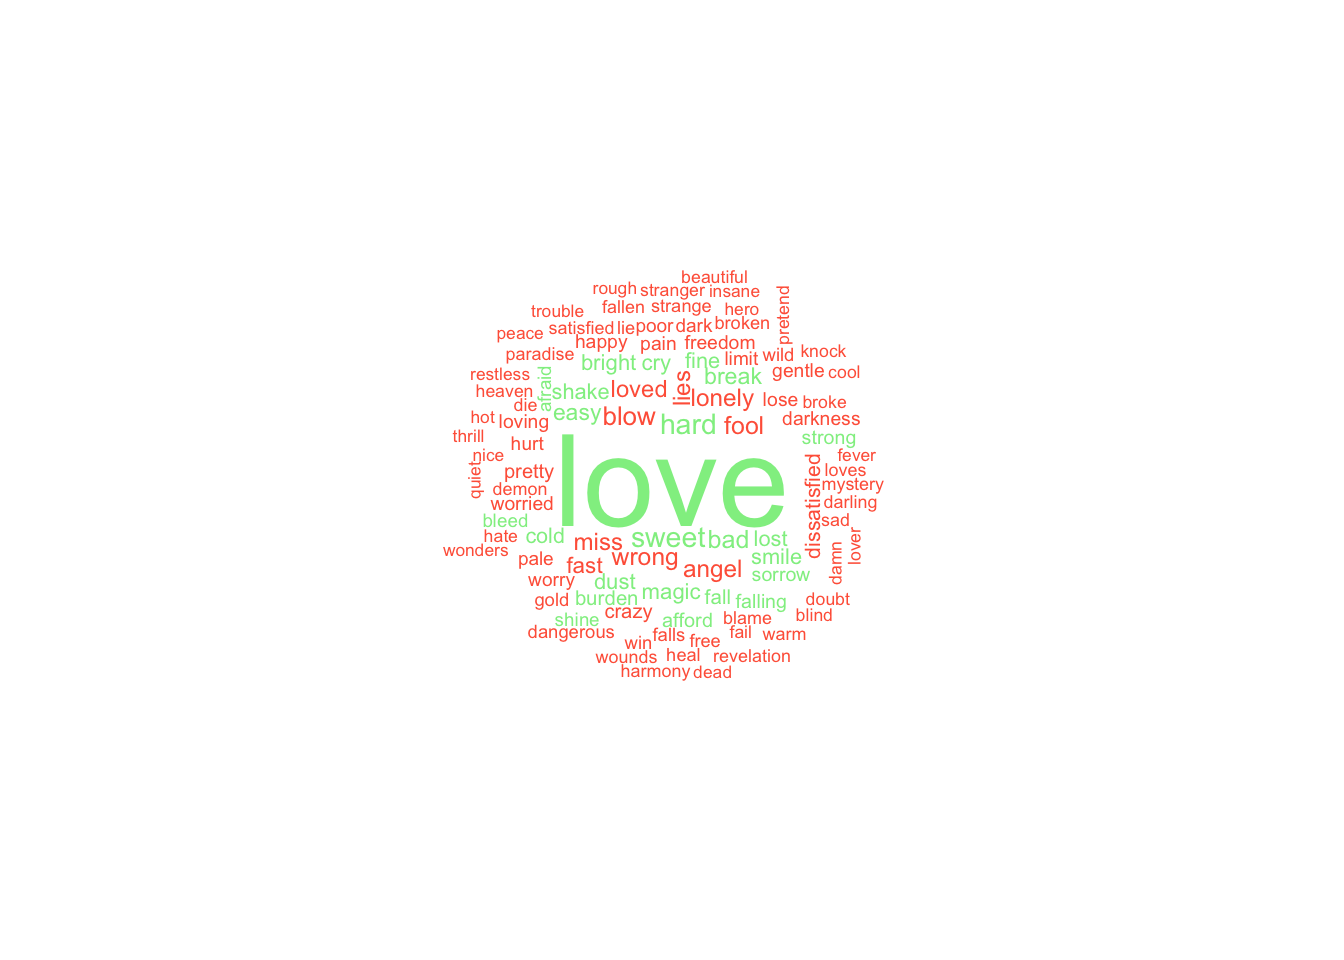
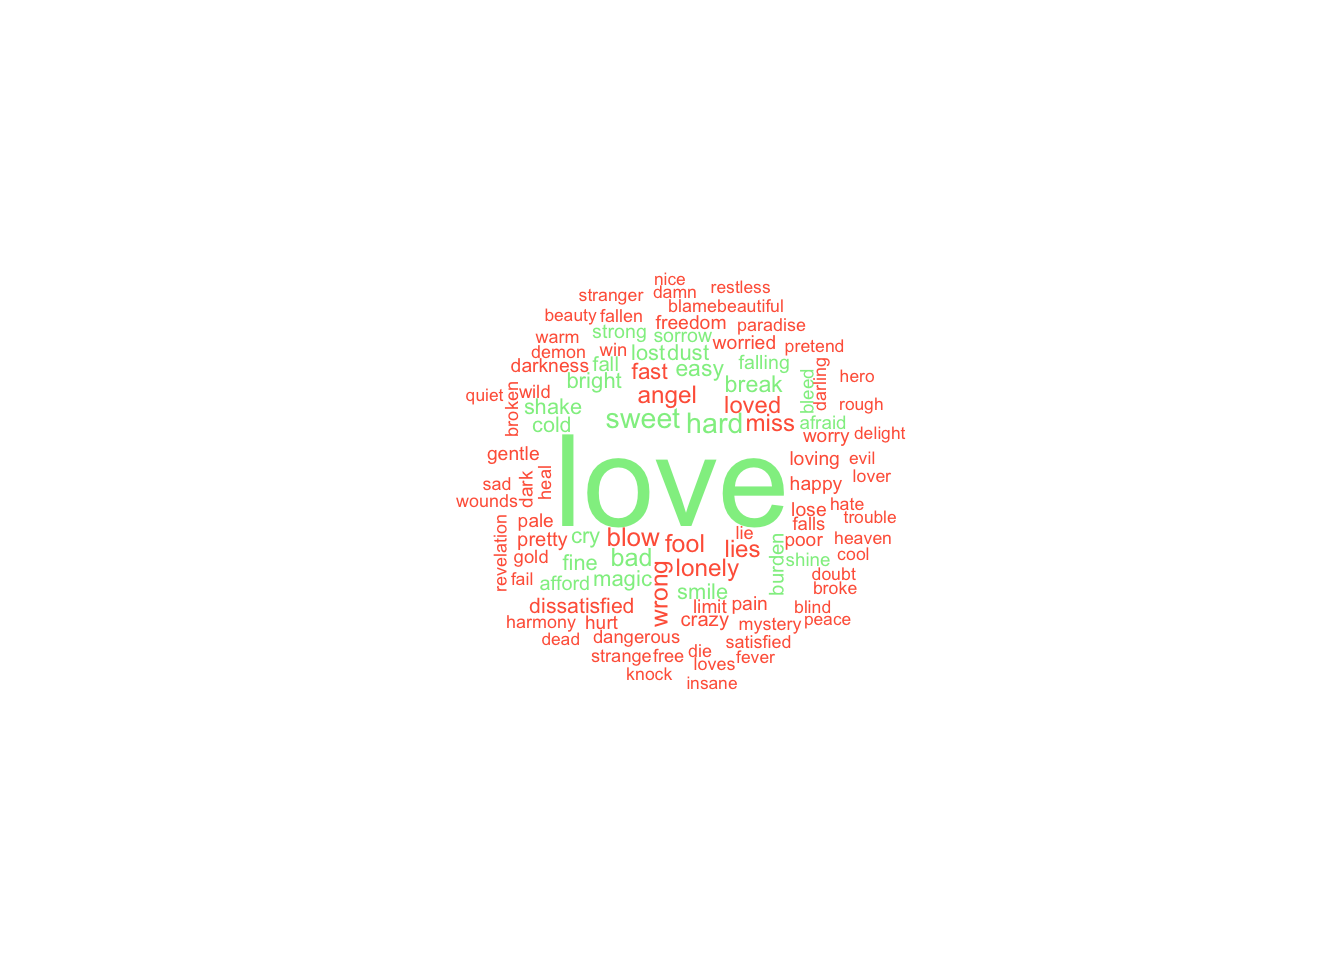
Text updates

Changed region(s): [[0.3438, 0.2812, 0.6875, 0.7188]]

diff --git a/docs/Text-Analysis.html b/docs/Text-Analysis.html
@@ -232,7 +232,11 @@ pre > code.sourceCode > span > a:first-child::before { text-decoration: underlin
 </div>
 <div class="sourceCode cell-code" id="cb5"><pre class="sourceCode r code-with-copy"><code class="sourceCode r"><span id="cb5-1"><a href="#cb5-1" aria-hidden="true" tabindex="-1"></a>smart_stopwords <span class="ot">&lt;-</span> <span class="fu">get_stopwords</span>(<span class="at">source =</span> <span class="st">"smart"</span>)</span></code><button title="Copy to Clipboard" class="code-copy-button"><i class="bi"></i></button></pre></div>
 </div>
-<p>Table of expressive words used in songs - expressive = oohs, ahs, etc</p>
+<p><em>Table of expressive words used in songs</em></p>
+<ul>
+<li>expressive = oohs, ahs, etc</li>
+</ul>
+<p>I found this partially on accident after working on removing them from my text analysis, but thought it would be fun to include.</p>
 <div class="cell">
 <div class="sourceCode cell-code" id="cb6"><pre class="sourceCode r code-with-copy"><code class="sourceCode r"><span id="cb6-1"><a href="#cb6-1" aria-hidden="true" tabindex="-1"></a>tidy_fleet_mac <span class="sc">|&gt;</span></span>
 <span id="cb6-2"><a href="#cb6-2" aria-hidden="true" tabindex="-1"></a>  <span class="fu">select</span>(<span class="sc">-</span>line) <span class="sc">|&gt;</span></span>
@@ -259,7 +263,8 @@ pre > code.sourceCode > span > a:first-child::before { text-decoration: underlin
 14 ooooooohhhhhhh                       1     1</code></pre>
 </div>
 </div>
-<p>Graph of most common 20 words</p>
+<p><em>Graph of most common 20 words</em></p>
+<p>I’m keeping my eye on words that might represent anger, or hint at any tensions between Nicks and Buckingham. We can see how love is prominently first, along with a few other positive words. Before words like women and she enter the charts, this is interesting as maybe she’s referencing Buckingham with another women.</p>
 <div class="cell">
 <div class="sourceCode cell-code" id="cb8"><pre class="sourceCode r code-with-copy"><code class="sourceCode r"><span id="cb8-1"><a href="#cb8-1" aria-hidden="true" tabindex="-1"></a>tidy_fleet_mac <span class="sc">|&gt;</span></span>
 <span id="cb8-2"><a href="#cb8-2" aria-hidden="true" tabindex="-1"></a>  <span class="fu">anti_join</span>(smart_stopwords) <span class="sc">|&gt;</span></span>
@@ -285,7 +290,8 @@ pre > code.sourceCode > span > a:first-child::before { text-decoration: underlin
 </div>
 </div>
 </div>
-<p>Table and Graph of top 10 positive and negative words</p>
+<p><em>Table and Graph of top 10 positive and negative words</em></p>
+<p>I’m not surprised at the higher count of negative words. I feel like Stevie Nicks also weaponizes the “positive” words to sometimes be used demeaningly and often with much irony. As the themes in her songs are often of heartbreak and have a deep emotional depth.</p>
 <div class="cell">
 <div class="sourceCode cell-code" id="cb10"><pre class="sourceCode r code-with-copy"><code class="sourceCode r"><span id="cb10-1"><a href="#cb10-1" aria-hidden="true" tabindex="-1"></a>fleet_mac_sentiments <span class="ot">&lt;-</span> tidy_fleet_mac <span class="sc">|&gt;</span></span>
 <span id="cb10-2"><a href="#cb10-2" aria-hidden="true" tabindex="-1"></a>  <span class="fu">inner_join</span>(bing_sentiments) <span class="sc">|&gt;</span></span>
@@ -332,7 +338,8 @@ pre > code.sourceCode > span > a:first-child::before { text-decoration: underlin
 </div>
 </div>
 </div>
-<p>Basic Word Cloud Using Bing Sentiments</p>
+<p><em>Basic Word Cloud Using Bing Sentiments</em></p>
+<p>Sticking with the irony theme, Love being the largest here really emphasizes that.</p>
 <div class="cell">
 <div class="sourceCode cell-code" id="cb15"><pre class="sourceCode r code-with-copy"><code class="sourceCode r"><span id="cb15-1"><a href="#cb15-1" aria-hidden="true" tabindex="-1"></a>words_fleet_mac <span class="ot">&lt;-</span> tidy_fleet_mac <span class="sc">|&gt;</span></span>
 <span id="cb15-2"><a href="#cb15-2" aria-hidden="true" tabindex="-1"></a>  <span class="fu">anti_join</span>(stop_words, <span class="at">by =</span> <span class="fu">join_by</span>(word)) <span class="sc">|&gt;</span></span>
@@ -358,7 +365,8 @@ pre > code.sourceCode > span > a:first-child::before { text-decoration: underlin
 </div>
 </div>
 </div>
-<p>Word Cloud Using NCR Sentiments - Anger</p>
+<p><em>Word Cloud Using NCR Sentiments - Anger</em></p>
+<p>To try and get around the ironic uses of positive words, I decided to focus on anger. I feel like the selection of negative words she uses are much more direct and tell a more meaningful story. Like honest, broken, lose, crazy, blame, all contribute to a complex story and relationships that she has.</p>
 <div class="cell">
 <div class="sourceCode cell-code" id="cb16"><pre class="sourceCode r code-with-copy"><code class="sourceCode r"><span id="cb16-1"><a href="#cb16-1" aria-hidden="true" tabindex="-1"></a>ncr_sentiments <span class="ot">&lt;-</span> <span class="fu">get_sentiments</span>(<span class="at">lexicon =</span> <span class="st">"nrc"</span>)</span>
 <span id="cb16-2"><a href="#cb16-2" aria-hidden="true" tabindex="-1"></a></span>
@@ -387,7 +395,8 @@ pre > code.sourceCode > span > a:first-child::before { text-decoration: underlin
 </div>
 </div>
 </div>
-<p>Graph as another way to visualize anger word count using song</p>
+<p><em>Graph as another way to visualize anger word count using song</em></p>
+<p>Here I wanted to explore these negative words with the song as context. Now, when compared to a list I found online, none of these songs would be listed as the top “angry” songs by Fleetwood Mac. I hope to listen to them and see if they meaningfully add to the narrative.</p>
 <div class="cell">
 <div class="sourceCode cell-code" id="cb19"><pre class="sourceCode r code-with-copy"><code class="sourceCode r"><span id="cb19-1"><a href="#cb19-1" aria-hidden="true" tabindex="-1"></a>ncr_sentiments <span class="sc">|&gt;</span></span>
 <span id="cb19-2"><a href="#cb19-2" aria-hidden="true" tabindex="-1"></a>  <span class="fu">filter</span>(sentiment <span class="sc">==</span> <span class="st">"anger"</span>) <span class="sc">|&gt;</span></span>
@@ -415,6 +424,8 @@ pre > code.sourceCode > span > a:first-child::before { text-decoration: underlin
 </div>
 </div>
 </div>
+<p><em>A Note About References to Stevie Nick’s Song Writing</em></p>
+<p>It should be emphasized that while I reference Nicks as writing the songs, that Buckingham also wrote songs as song are also from his point of view. This doesn’t necessarily alter the narrative too much as they both conveyed complex emotions through their music. In a separate project, I might be able to assign who wrote what song and see hwo that changes what I’ve found.</p>
 
 
 
